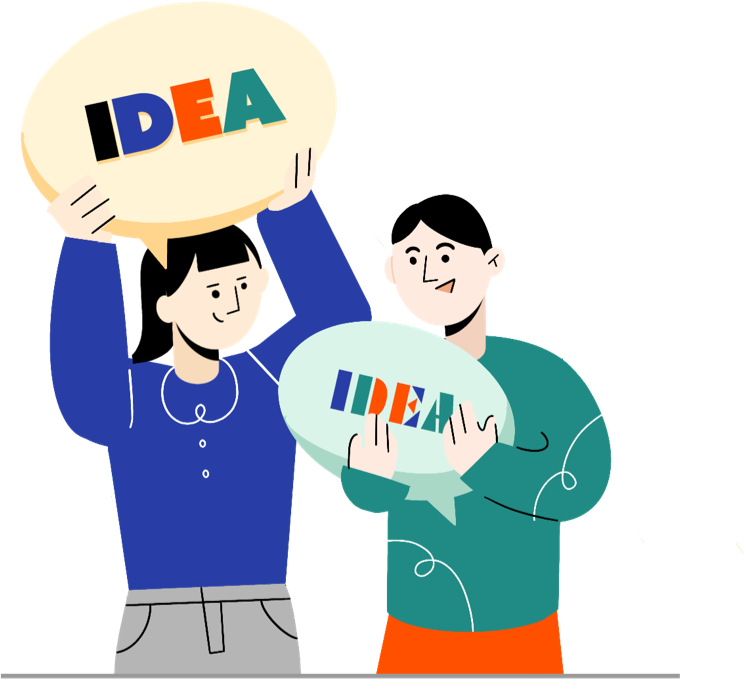
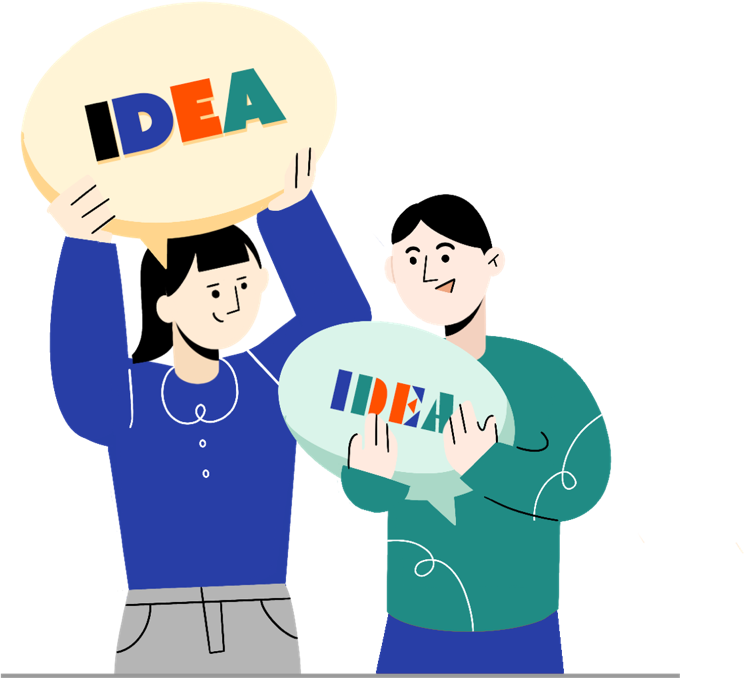
투표기간 이미지 교체 및 사소한 CSS 수정

diff --git a/src/components/common/sessionInfo/SessionInfoIdeaVote.vue b/src/components/common/sessionInfo/SessionInfoIdeaVote.vue
@@ -9,8 +9,8 @@
 
             <div v-if="!isAdmin">
                 <div class="session-info-idea-put-basket-box">
-                    <div v-show="!voteDone">
-                        <span class="session-info-idea-put-basket">아이디어 담기</span>
+                    <div v-show="!voteDone" style="width: 200px">
+                        <span class="session-info-idea-put-basket">아이디어 투표 담기</span>
                         <span class="session-info-idea-put-basket-count">{{ candidateIdeas.length }} / {{ maxVoteCount }}</span>
                     </div>
                     <span v-show="voteDone" class="session-info-idea-put-basket">투표내역</span>
@@ -355,7 +355,7 @@
         width: 560px;
         height: 399px;
         position: absolute;
-        top: 19px;
+        top: 17px;
         right: -50px;
     }
 

diff --git a/src/components/idea/list/IdeaListVoteAndCheck.vue b/src/components/idea/list/IdeaListVoteAndCheck.vue
@@ -185,7 +185,7 @@
                 this.$store.commit('main/ADD_CANDIDATE_IDEA', id);
                 window.vm.$notify.info({
                     title: '아이디어 투표',
-                    message: '아이디어가 장바구니에 담겼습니다'
+                    message: '아이디어가 투표담기에 담겼습니다'
                 });
             },
 

diff --git a/src/components/admin/manage/Session.vue b/src/components/admin/manage/Session.vue
@@ -11,7 +11,7 @@
                 </div>
 
                 <button v-if="isAdmin" class="session-info-button">
-                    아이디어 작성하기
+                    아이디어 추가하기
                 </button>
             </div>
 
